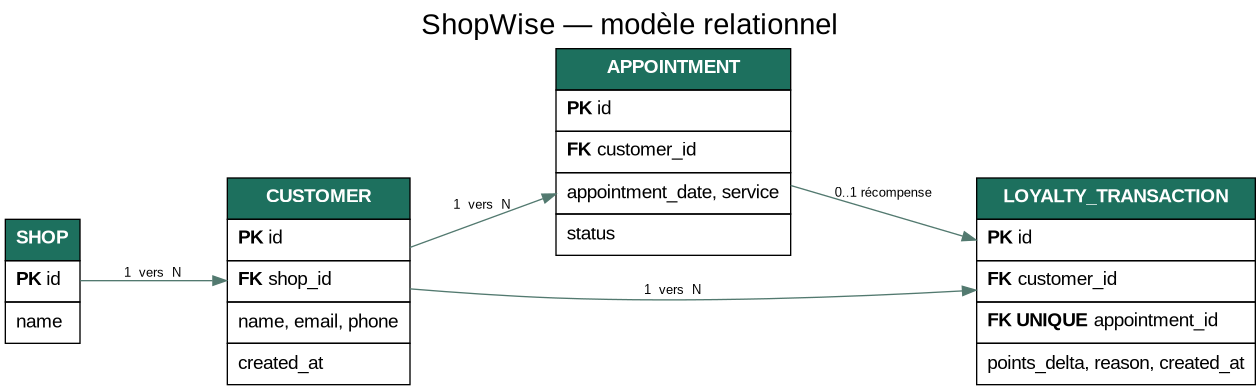
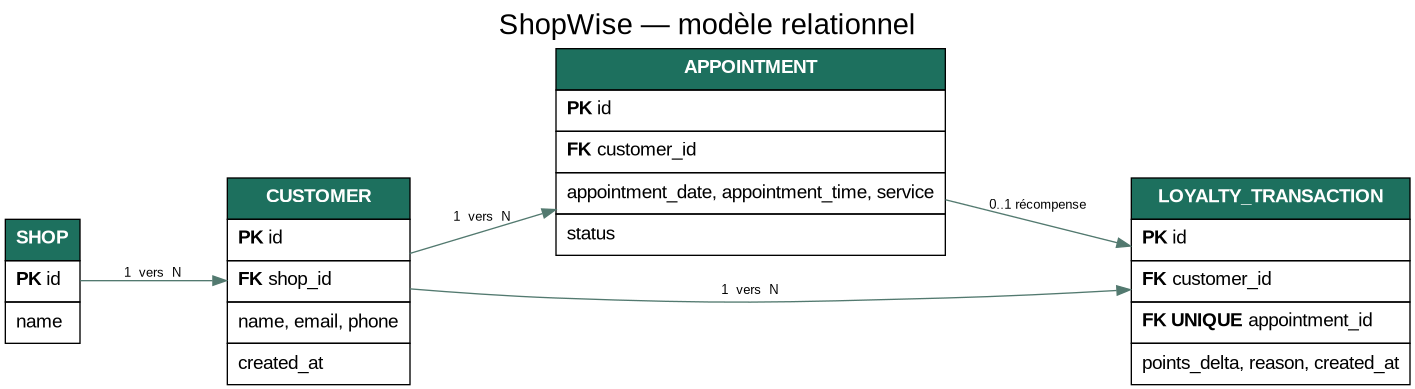
feat: couvrir les user stories et préparer le déploiement

diff --git a/src/frontend/src/app/app.component.ts b/src/frontend/src/app/app.component.ts
@@ -3,29 +3,31 @@ import { CommonModule } from '@angular/common';
 import { FormsModule } from '@angular/forms';
 import { HttpClient, HttpParams } from '@angular/common/http';
 interface Customer { id:number; shopId:number; name:string; email:string; phone:string; }
-interface Appointment { id:number; date:string; service:string; status:'PLANNED'|'HONORED'|'CANCELLED'; customer:Customer; }
+interface Appointment { id:number; date:string; time:string; service:string; status:'PLANNED'|'HONORED'|'CANCELLED'; customer:Customer; }
 interface Loyalty { customerId:number; balance:number; transactions:{pointsDelta:number;reason:string;createdAt:string}[]; }
 @Component({selector:'app-root',standalone:true,imports:[CommonModule,FormsModule],template:`
 <header><div class="brand">shopwise<span>.</span></div><nav><a href="#clients">Clients</a><a href="#agenda">Rendez-vous</a><a href="#fidelite">Fidélité</a></nav></header>
 <main><section class="hero"><div><p class="eyebrow">CHEZ MARIE · ESPACE COMMERÇANT</p><h1>Le quotidien du commerce,<br>un peu plus simple.</h1><p>Les clients, les rendez-vous et les points réunis au même endroit.</p></div><div class="hero-note">Une vue claire.<br><b>Moins d’administratif.</b></div></section>
 <p class="error" *ngIf="error">{{error}}</p>
-<section id="clients" class="panel"><div class="section-title"><div><p class="eyebrow">CARNET CLIENT</p><h2>Ajouter un client</h2></div></div>
-<form (ngSubmit)="saveCustomer()"><label>Nom<input name="name" [(ngModel)]="customerForm.name" required></label><label>Email<input name="email" type="email" [(ngModel)]="customerForm.email" required></label><label>Téléphone<input name="phone" [(ngModel)]="customerForm.phone"></label><button>Enregistrer</button></form>
-<div class="client-row" *ngFor="let c of customers"><span><b>{{c.name}}</b><small>{{c.email}} · {{c.phone || 'Téléphone non renseigné'}}</small></span><button class="soft" (click)="selectCustomer(c)">Voir fidélité</button></div></section>
+<section id="clients" class="panel"><div class="section-title"><div><p class="eyebrow">CARNET CLIENT</p><h2>{{editingCustomerId ? 'Modifier le client' : 'Ajouter un client'}}</h2></div></div>
+<form (ngSubmit)="saveCustomer()"><label>Nom<input name="name" [(ngModel)]="customerForm.name" required></label><label>Email<input name="email" type="email" [(ngModel)]="customerForm.email" required></label><label>Téléphone<input name="phone" [(ngModel)]="customerForm.phone"></label><button>{{editingCustomerId ? 'Mettre à jour' : 'Enregistrer'}}</button><button type="button" class="soft" *ngIf="editingCustomerId" (click)="cancelEdit()">Annuler</button></form>
+<div class="client-row" *ngFor="let c of customers"><span><b>{{c.name}}</b><small>{{c.email}} · {{c.phone || 'Téléphone non renseigné'}}</small></span><button class="soft" (click)="editCustomer(c)">Modifier</button><button class="soft" (click)="selectCustomer(c)">Voir fidélité</button></div></section>
 <section id="agenda" class="panel"><div class="section-title"><div><p class="eyebrow">PLANNING</p><h2>Nouveau rendez-vous</h2></div></div>
-<form (ngSubmit)="saveAppointment()"><label>Client<select name="customer" [(ngModel)]="appointmentForm.customerId" required><option [ngValue]="null">Choisir…</option><option *ngFor="let c of customers" [ngValue]="c.id">{{c.name}}</option></select></label><label>Date<input name="date" type="date" [(ngModel)]="appointmentForm.date" required></label><label>Service<input name="service" [(ngModel)]="appointmentForm.service" required></label><button>Planifier</button></form>
-<div class="filters"><label>Filtrer par date<input type="date" [(ngModel)]="filterDate" (change)="loadAppointments()"></label><label>Statut<select [(ngModel)]="filterStatus" (change)="loadAppointments()"><option value="">Tous</option><option value="PLANNED">À venir</option><option value="HONORED">Honoré</option><option value="CANCELLED">Annulé</option></select></label></div>
-<div class="appointment" *ngFor="let a of appointments"><span class="date">{{a.date}}</span><span><b>{{a.customer.name}}</b><small>{{a.service}}</small></span><span class="badge">{{label(a.status)}}</span><button *ngIf="a.status!=='HONORED'" class="soft" (click)="setStatus(a,'HONORED')">Honoré</button><button *ngIf="a.status==='PLANNED'" class="soft" (click)="setStatus(a,'CANCELLED')">Annuler</button></div></section>
+<form (ngSubmit)="saveAppointment()"><label>Client<select name="customer" [(ngModel)]="appointmentForm.customerId" required><option [ngValue]="null">Choisir…</option><option *ngFor="let c of customers" [ngValue]="c.id">{{c.name}}</option></select></label><label>Date<input name="date" type="date" [(ngModel)]="appointmentForm.date" required></label><label>Heure<input name="time" type="time" [(ngModel)]="appointmentForm.time" required></label><label>Service<input name="service" [(ngModel)]="appointmentForm.service" required></label><button>Planifier</button></form>
+<div class="filters"><label>Filtrer par date<input type="date" [(ngModel)]="filterDate" (change)="loadAppointments()"></label><label>Client<select [(ngModel)]="filterCustomerId" (change)="loadAppointments()"><option value="">Tous</option><option *ngFor="let c of customers" [value]="c.id">{{c.name}}</option></select></label><label>Statut<select [(ngModel)]="filterStatus" (change)="loadAppointments()"><option value="">Tous</option><option value="PLANNED">À venir</option><option value="HONORED">Honoré</option><option value="CANCELLED">Annulé</option></select></label></div>
+<div class="appointment" *ngFor="let a of appointments"><span class="date">{{a.date}}</span><span><b>{{a.customer.name}}</b><small>{{a.time}} · {{a.service}}</small></span><span class="badge">{{label(a.status)}}</span><button *ngIf="a.status!=='HONORED'" class="soft" (click)="setStatus(a,'HONORED')">Honoré</button><button *ngIf="a.status==='PLANNED'" class="soft" (click)="setStatus(a,'CANCELLED')">Annuler</button></div></section>
 <section id="fidelite" class="panel loyalty" *ngIf="loyalty"><div><p class="eyebrow">FIDÉLITÉ · {{selectedName}}</p><h2>{{loyalty.balance}} <small>points</small></h2></div><div><h3>Historique</h3><p *ngFor="let t of loyalty.transactions">+{{t.pointsDelta}} · {{t.reason}}</p></div></section>
 <footer>ShopWise · Prototype de démonstration</footer></main>`})
 export class AppComponent implements OnInit {
  private http=inject(HttpClient); private api='/api'; customers:Customer[]=[];appointments:Appointment[]=[];loyalty:Loyalty|null=null;selectedName='';error='';
- customerForm={shopId:1,name:'',email:'',phone:''};appointmentForm:{customerId:number|null,date:string,service:string}={customerId:null,date:'',service:''};filterDate='';filterStatus='';
+ customerForm={shopId:1,name:'',email:'',phone:''};appointmentForm:{customerId:number|null,date:string,time:string,service:string}={customerId:null,date:'',time:'',service:''};filterDate='';filterStatus='';filterCustomerId='';editingCustomerId:number|null=null;
  ngOnInit():void {this.loadCustomers();this.loadAppointments();}
  loadCustomers():void {this.http.get<Customer[]>(this.api+'/clients').subscribe({next:v=>this.customers=v,error:()=>this.error='Impossible de joindre les clients. Vérifiez que l’API est lancée.'});}
- loadAppointments():void {let p=new HttpParams();if(this.filterDate)p=p.set('date',this.filterDate);if(this.filterStatus)p=p.set('status',this.filterStatus);this.http.get<Appointment[]>(this.api+'/appointments',{params:p}).subscribe({next:v=>this.appointments=v,error:()=>this.error='La liste des rendez-vous ne peut pas être chargée.'});}
- saveCustomer():void {this.http.post<Customer>(this.api+'/clients',this.customerForm).subscribe({next:()=>{this.customerForm={shopId:1,name:'',email:'',phone:''};this.loadCustomers();this.error='';},error:()=>this.error='Vérifiez les informations du client.'});}
- saveAppointment():void {if(!this.appointmentForm.customerId)return;this.http.post(this.api+'/appointments',this.appointmentForm).subscribe({next:()=>{this.loadAppointments();this.appointmentForm={customerId:null,date:'',service:''};this.error='';},error:()=>this.error='Le rendez-vous n’a pas pu être créé.'});}
+ loadAppointments():void {let p=new HttpParams();if(this.filterDate)p=p.set('date',this.filterDate);if(this.filterStatus)p=p.set('status',this.filterStatus);if(this.filterCustomerId)p=p.set('customerId',this.filterCustomerId);this.http.get<Appointment[]>(this.api+'/appointments',{params:p}).subscribe({next:v=>this.appointments=v,error:()=>this.error='La liste des rendez-vous ne peut pas être chargée.'});}
+ saveCustomer():void {const request=this.editingCustomerId ? this.http.put<Customer>(this.api+'/clients/'+this.editingCustomerId,this.customerForm) : this.http.post<Customer>(this.api+'/clients',this.customerForm);request.subscribe({next:()=>{this.cancelEdit();this.loadCustomers();this.error='';},error:()=>this.error='Vérifiez les informations du client.'});}
+ editCustomer(c:Customer):void {this.editingCustomerId=c.id;this.customerForm={shopId:c.shopId,name:c.name,email:c.email,phone:c.phone||''};}
+ cancelEdit():void {this.editingCustomerId=null;this.customerForm={shopId:1,name:'',email:'',phone:''};}
+ saveAppointment():void {if(!this.appointmentForm.customerId)return;this.http.post(this.api+'/appointments',this.appointmentForm).subscribe({next:()=>{this.loadAppointments();this.appointmentForm={customerId:null,date:'',time:'',service:''};this.error='';},error:()=>this.error='Le rendez-vous n’a pas pu être créé.'});}
  setStatus(a:Appointment,status:'HONORED'|'CANCELLED'):void {this.http.patch(this.api+'/appointments/'+a.id+'/status',{status}).subscribe({next:()=>this.loadAppointments(),error:()=>this.error='La mise à jour a échoué.'});}
  selectCustomer(c:Customer):void {this.selectedName=c.name;this.http.get<Loyalty>(this.api+'/clients/'+c.id+'/loyalty').subscribe({next:v=>this.loyalty=v,error:()=>this.error='Historique de fidélité indisponible.'});}
  label(s:Appointment['status']):string {return s==='PLANNED'?'À venir':s==='HONORED'?'Honoré':'Annulé';}

diff --git a/src/frontend/karma.conf.js b/src/frontend/karma.conf.js
@@ -1,3 +1,3 @@
 module.exports = function (config) {
-  config.set({ basePath: '', frameworks: ['jasmine', '@angular-devkit/build-angular'], plugins: [require('karma-jasmine'), require('karma-chrome-launcher'), require('karma-jasmine-html-reporter'), require('karma-coverage'), require('@angular-devkit/build-angular/plugins/karma')], client: { jasmine: {}, clearContext: false }, coverageReporter: { dir: require('path').join(__dirname, './coverage'), subdir: '.', reporters: [{type:'html'},{type:'text-summary'},{type:'lcov'}] }, reporters: ['progress','kjhtml'], browsers: ['ChromeHeadlessNoSandbox'], customLaunchers: { ChromeHeadlessNoSandbox: { base:'ChromeHeadless', flags:['--no-sandbox','--disable-gpu','--disable-dev-shm-usage'] } }, restartOnFileChange: true });
+  config.set({ basePath: '', frameworks: ['jasmine', '@angular-devkit/build-angular'], plugins: [require('karma-jasmine'), require('karma-chrome-launcher'), require('karma-jasmine-html-reporter'), require('karma-coverage'), require('@angular-devkit/build-angular/plugins/karma')], client: { jasmine: {}, clearContext: false }, coverageReporter: { dir: require('path').join(__dirname, './coverage'), subdir: '.', reporters: [{type:'html'},{type:'text-summary'},{type:'lcov'}], check: {global: {statements: 60, branches: 60}} }, reporters: ['progress','kjhtml'], browsers: ['ChromeHeadlessNoSandbox'], customLaunchers: { ChromeHeadlessNoSandbox: { base:'ChromeHeadless', flags:['--no-sandbox','--disable-gpu','--disable-dev-shm-usage'] } }, restartOnFileChange: true });
 };

diff --git a/src/frontend/src/app/app.component.spec.ts b/src/frontend/src/app/app.component.spec.ts
@@ -1,9 +1,9 @@
 import { TestBed } from '@angular/core/testing';
 import { provideHttpClient } from '@angular/common/http';
-import { provideHttpClientTesting } from '@angular/common/http/testing';
+import { HttpTestingController, provideHttpClientTesting } from '@angular/common/http/testing';
 import { AppComponent } from './app.component';
 describe('AppComponent',()=>{
  beforeEach(async()=>{await TestBed.configureTestingModule({imports:[AppComponent],providers:[provideHttpClient(),provideHttpClientTesting()]}).compileComponents();});
- it('affiche le titre ShopWise',()=>{const f=TestBed.createComponent(AppComponent);f.detectChanges();expect(f.nativeElement.querySelector('.brand').textContent).toContain('shopwise');});
+ it('affiche le titre et charge les listes',()=>{const f=TestBed.createComponent(AppComponent);f.detectChanges();const h=TestBed.inject(HttpTestingController);h.expectOne('/api/clients').flush([]);h.expectOne('/api/appointments').flush([]);expect(f.nativeElement.querySelector('.brand').textContent).toContain('shopwise');h.verify();});
  it('traduit les trois statuts métier',()=>{const c=TestBed.createComponent(AppComponent).componentInstance;expect(c.label('PLANNED')).toBe('À venir');expect(c.label('HONORED')).toBe('Honoré');expect(c.label('CANCELLED')).toBe('Annulé');});
 });

diff --git a/src/backend/src/main/java/fr/shopwise/api/web/ShopController.java b/src/backend/src/main/java/fr/shopwise/api/web/ShopController.java
@@ -2,20 +2,20 @@ package fr.shopwise.api.web;
 import fr.shopwise.api.model.*; import fr.shopwise.api.repo.*; import fr.shopwise.api.service.*;
 import jakarta.validation.Valid; import jakarta.validation.constraints.*;
 import org.springframework.web.bind.annotation.*; import org.springframework.http.HttpStatus;
-import java.time.LocalDate; import java.util.List;
+import java.time.LocalDate; import java.time.LocalTime; import java.util.List;
 @RestController @RequestMapping("/api") @CrossOrigin(origins="*")
 public class ShopController {
  private final ShopService service; private final CustomerRepository customers;
  public ShopController(ShopService s,CustomerRepository c){service=s;customers=c;}
  record CustomerBody(@NotNull Long shopId,@NotBlank String name,@Email @NotBlank String email,String phone){}
- record AppointmentBody(@NotNull Long customerId,@NotNull LocalDate date,@NotBlank String service){}
+ record AppointmentBody(@NotNull Long customerId,@NotNull LocalDate date,@NotNull LocalTime time,@NotBlank String service){}
  record StatusBody(@NotNull Appointment.Status status){}
  @PostMapping("/clients") @ResponseStatus(HttpStatus.CREATED) public Customer create(@Valid @RequestBody CustomerBody b){return service.saveCustomer(toCustomer(b));}
  @GetMapping("/clients") public List<Customer> clients(){return customers.findAll();}
  @GetMapping("/clients/{id}") public Customer get(@PathVariable Long id){return service.customer(id);}
  @PutMapping("/clients/{id}") public Customer update(@PathVariable Long id,@Valid @RequestBody CustomerBody b){Customer c=service.customer(id);c.setShopId(b.shopId());c.setName(b.name());c.setEmail(b.email());c.setPhone(b.phone());return service.saveCustomer(c);}
  private Customer toCustomer(CustomerBody b){Customer c=new Customer();c.setShopId(b.shopId());c.setName(b.name());c.setEmail(b.email());c.setPhone(b.phone());return c;}
- @PostMapping("/appointments") @ResponseStatus(HttpStatus.CREATED) public Appointment createAppointment(@Valid @RequestBody AppointmentBody b){return service.createAppointment(b.customerId(),b.date(),b.service());}
+ @PostMapping("/appointments") @ResponseStatus(HttpStatus.CREATED) public Appointment createAppointment(@Valid @RequestBody AppointmentBody b){return service.createAppointment(b.customerId(),b.date(),b.time(),b.service());}
  @GetMapping("/appointments") public List<Appointment> appointments(@RequestParam(required=false) LocalDate date,@RequestParam(required=false) Appointment.Status status,@RequestParam(required=false) Long customerId){return service.listAppointments(date,status,customerId);}
  @PatchMapping("/appointments/{id}/status") public Appointment status(@PathVariable Long id,@Valid @RequestBody StatusBody b){return service.changeStatus(id,b.status());}
  @GetMapping("/clients/{id}/loyalty") public ShopService.LoyaltySummary loyalty(@PathVariable Long id){return service.loyalty(id);}

diff --git a/src/backend/src/test/java/fr/shopwise/api/service/ShopServiceTest.java b/src/backend/src/test/java/fr/shopwise/api/service/ShopServiceTest.java
@@ -19,4 +19,30 @@ class ShopServiceTest {
   ShopService s=new ShopService(mock(CustomerRepository.class),ar,mock(LoyaltyRepository.class));
   assertThrows(ResourceMissingException.class,()->s.changeStatus(2L,Appointment.Status.CANCELLED));
  }
+ @Test void filtresDeRendezVousSontTransmisAuDepot(){
+  CustomerRepository cr=mock(CustomerRepository.class);AppointmentRepository ar=mock(AppointmentRepository.class);LoyaltyRepository lr=mock(LoyaltyRepository.class);ShopService s=new ShopService(cr,ar,lr);
+  LocalDate d=LocalDate.of(2026,11,8);Appointment.Status st=Appointment.Status.PLANNED;
+  s.listAppointments(d,st,1L);verify(ar).findAllByDateAndStatusAndCustomer_Id(d,st,1L);
+  s.listAppointments(d,st,null);verify(ar).findAllByDateAndStatus(d,st);
+  s.listAppointments(d,null,1L);verify(ar).findAllByDateAndCustomer_Id(d,1L);
+  s.listAppointments(null,st,1L);verify(ar).findAllByStatusAndCustomer_Id(st,1L);
+  s.listAppointments(d,null,null);verify(ar).findAllByDate(d);
+  s.listAppointments(null,st,null);verify(ar).findAllByStatus(st);
+  s.listAppointments(null,null,1L);verify(ar).findAllByCustomer_Id(1L);
+  s.listAppointments(null,null,null);verify(ar).findAll();
+ }
+ @Test void soldeEstLaSommeDesMouvements(){
+  CustomerRepository cr=mock(CustomerRepository.class);LoyaltyRepository lr=mock(LoyaltyRepository.class);Customer c=new Customer();c.setId(5L);
+  when(cr.findById(5L)).thenReturn(Optional.of(c));LoyaltyTransaction t=new LoyaltyTransaction();t.setPointsDelta(10);
+  when(lr.findAllByCustomer_IdOrderByCreatedAtDesc(5L)).thenReturn(java.util.List.of(t));
+  ShopService.LoyaltySummary result=new ShopService(cr,mock(AppointmentRepository.class),lr).loyalty(5L);
+  assertEquals(10,result.balance());assertEquals(1,result.transactions().size());
+ }
+ @Test void creeRendezVousApresAvoirTrouveLeClient(){
+  CustomerRepository cr=mock(CustomerRepository.class);AppointmentRepository ar=mock(AppointmentRepository.class);Customer c=new Customer();c.setId(1L);
+  when(cr.findById(1L)).thenReturn(Optional.of(c));when(ar.save(any())).thenAnswer(x->x.getArgument(0));
+  Appointment a=new ShopService(cr,ar,mock(LoyaltyRepository.class)).createAppointment(1L,LocalDate.now(),java.time.LocalTime.NOON,"Test");
+  assertEquals(c,a.getCustomer());assertEquals(java.time.LocalTime.NOON,a.getTime());
+ }
+
 }

diff --git a/src/backend/src/main/java/fr/shopwise/api/service/ShopService.java b/src/backend/src/main/java/fr/shopwise/api/service/ShopService.java
@@ -1,15 +1,15 @@
 package fr.shopwise.api.service;
 import fr.shopwise.api.model.*; import fr.shopwise.api.repo.*;
 import org.springframework.stereotype.Service; import org.springframework.transaction.annotation.Transactional;
-import java.time.LocalDate; import java.util.List;
+import java.time.LocalDate; import java.time.LocalTime; import java.util.List;
 @Service
 public class ShopService {
  private final CustomerRepository customers; private final AppointmentRepository appointments; private final LoyaltyRepository loyalty;
  public ShopService(CustomerRepository c,AppointmentRepository a,LoyaltyRepository l){customers=c;appointments=a;loyalty=l;}
  public Customer saveCustomer(Customer c){return customers.save(c);}
  public Customer customer(Long id){return customers.findById(id).orElseThrow(()->new ResourceMissingException("Client introuvable"));}
- public Appointment createAppointment(Long customerId, LocalDate date, String service){
-  Customer c=customer(customerId); Appointment a=new Appointment(); a.setCustomer(c); a.setDate(date); a.setService(service); return appointments.save(a);
+ public Appointment createAppointment(Long customerId, LocalDate date, LocalTime time, String service){
+  Customer c=customer(customerId); Appointment a=new Appointment(); a.setCustomer(c); a.setDate(date); a.setTime(time); a.setService(service); return appointments.save(a);
  }
  public List<Appointment> listAppointments(LocalDate date, Appointment.Status status, Long customerId){
   if(date!=null&&status!=null&&customerId!=null)return appointments.findAllByDateAndStatusAndCustomer_Id(date,status,customerId);

diff --git a/src/backend/src/main/java/fr/shopwise/api/model/Appointment.java b/src/backend/src/main/java/fr/shopwise/api/model/Appointment.java
@@ -1,17 +1,20 @@
 package fr.shopwise.api.model;
 import jakarta.persistence.*;
 import java.time.LocalDate;
+import java.time.LocalTime;
 @Entity @Table(name="appointment")
 public class Appointment {
  public enum Status { PLANNED, HONORED, CANCELLED }
  @Id @GeneratedValue(strategy=GenerationType.IDENTITY) private Long id;
  @ManyToOne(optional=false) @JoinColumn(name="customer_id",nullable=false) private Customer customer;
  @Column(name="appointment_date",nullable=false) private LocalDate date;
+ @Column(name="appointment_time",nullable=false) private LocalTime time;
  @Column(nullable=false) private String service;
  @Enumerated(EnumType.STRING) @Column(nullable=false) private Status status=Status.PLANNED;
  public Long getId(){return id;} public void setId(Long id){this.id=id;}
  public Customer getCustomer(){return customer;} public void setCustomer(Customer c){this.customer=c;}
  public LocalDate getDate(){return date;} public void setDate(LocalDate date){this.date=date;}
+ public LocalTime getTime(){return time;} public void setTime(LocalTime time){this.time=time;}
  public String getService(){return service;} public void setService(String service){this.service=service;}
  public Status getStatus(){return status;} public void setStatus(Status status){this.status=status;}
 }

diff --git a/docs/01-cadrage-et-analyse.md b/docs/01-cadrage-et-analyse.md
@@ -11,7 +11,7 @@ Le commerçant tient les coordonnées, crée et filtre les rendez-vous et met à
 | Réf. | User story | Conditions d’acceptation retenues |
 |---|---|---|
 | US1 | Commerçant, créer/mettre à jour une fiche client (nom, email, téléphone) | Nom et email requis; email au format valide; lecture et mise à jour par identifiant. |
-| US2 | Commerçant, créer un rendez-vous (client, date, heure, service) | Client existant; service et date requis; état initial `PLANNED`. |
+| US2 | Commerçant, créer un rendez-vous (client, date, heure, service) | Client existant; service, date et heure requis; état initial `PLANNED`. |
 | US3 | Commerçant, lister et filtrer les rendez-vous par date, état, client | Chaque filtre est optionnel et combinable. |
 | US4 | Commerçant, déclarer honoré ou annulé | Seuls `PLANNED` et `CANCELLED` peuvent être honorés; un rendez-vous honoré ne récompense qu’une fois. |
 | US5 | Commerçant, attribuer des points après rendez-vous honoré | 10 points de démonstration crédités lors de la transition vers `HONORED`, une seule transaction par rendez-vous. |

diff --git a/docs/checklist-livrables.md b/docs/checklist-livrables.md
@@ -8,7 +8,7 @@
 | Q2 schéma PDF | `bdd/schema base de données.pdf` | Présent |
 | Q2 SQL structure et données d’essai | `bdd/script.sql` | Présent |
 | Q3 backend Java Spring Boot | `src/backend/` | Code présent; exécution non validée dans cet environnement |
-| Q3 frontend Angular | `src/frontend/` | Code présent; exécution non validée dans cet environnement |
+| Q3 frontend Angular | `src/frontend/` | Code présent; création/mise à jour client et filtres date/statut/client; exécution non validée ici |
 | Q4 tests backend et frontend | `src/backend/src/test/`, `src/frontend/src/app/` | Sources de tests présentes; non lancées ici |
 | Q4 rapports frontend/backend | `couverture/` | Guides d’emplacement; rapports réels à générer en CI, aucun pourcentage simulé |
 | Q5 pipeline build, tests et couverture téléchargeable | `.github/workflows/ci.yml` | Configuration présente; dépend des secrets et du runner GitHub |

diff --git a/docs/api.md b/docs/api.md
@@ -8,7 +8,7 @@ Base locale : `http://localhost:8080/api`. JSON, CORS activé pour le client loc
 | `GET /clients/{id}` | — | Fiche client |
 | `PUT /clients/{id}` | mêmes champs | Fiche modifiée |
 | `GET /clients/{id}/loyalty` | — | `{ balance, transactions }` |
-| `POST /appointments` | `{ "customerId":1,"date":"2026-11-10","service":"Conseil" }` | Rendez-vous planifié, 201 |
+| `POST /appointments` | `{ "customerId":1,"date":"2026-11-10","time":"10:00:00","service":"Conseil" }` | Rendez-vous planifié, 201 |
 | `GET /appointments?date=2026-11-10&status=PLANNED&customerId=1` | filtres tous facultatifs | Liste filtrée |
 | `PATCH /appointments/{id}/status` | `{ "status":"HONORED" }` ou `CANCELLED` | Rendez-vous modifié; récompense unique sur honoré |
 
